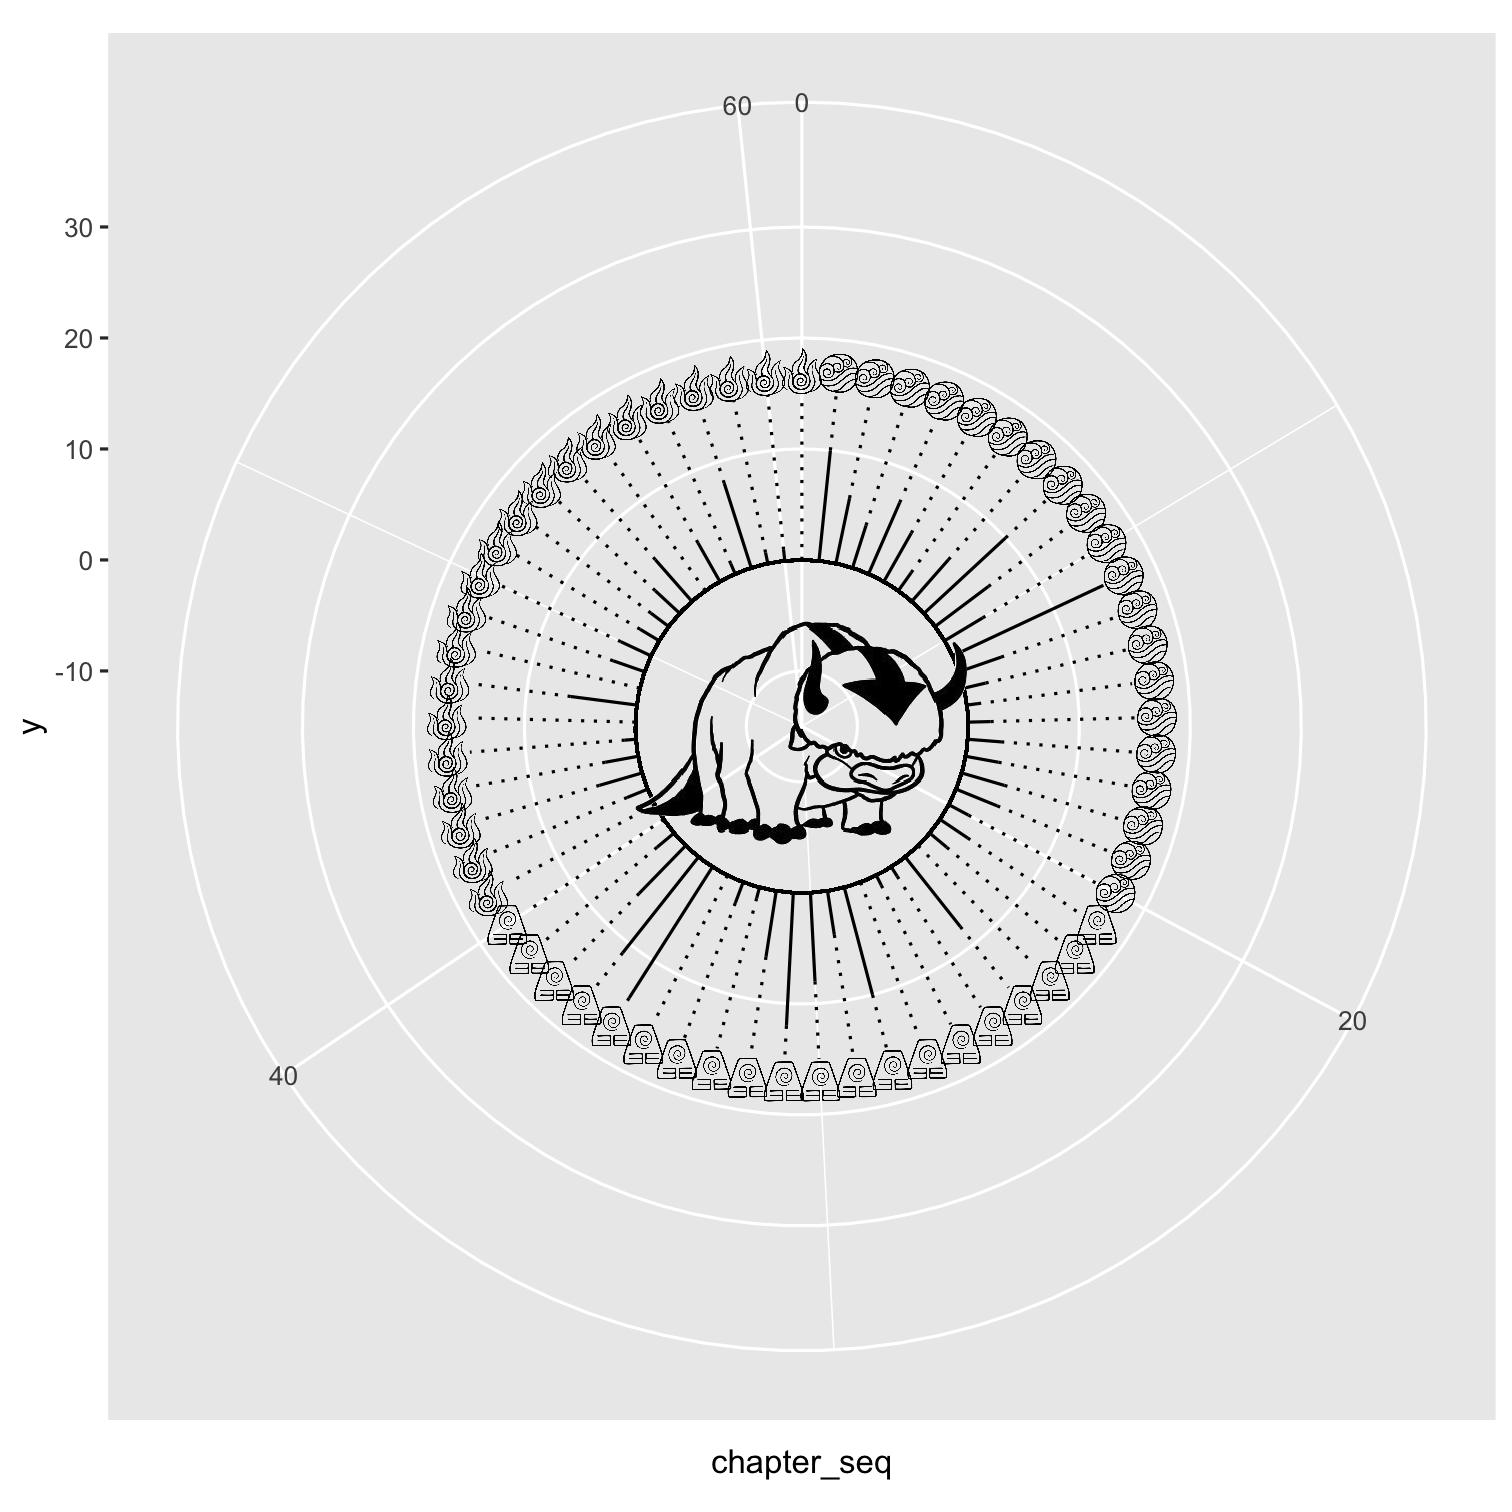
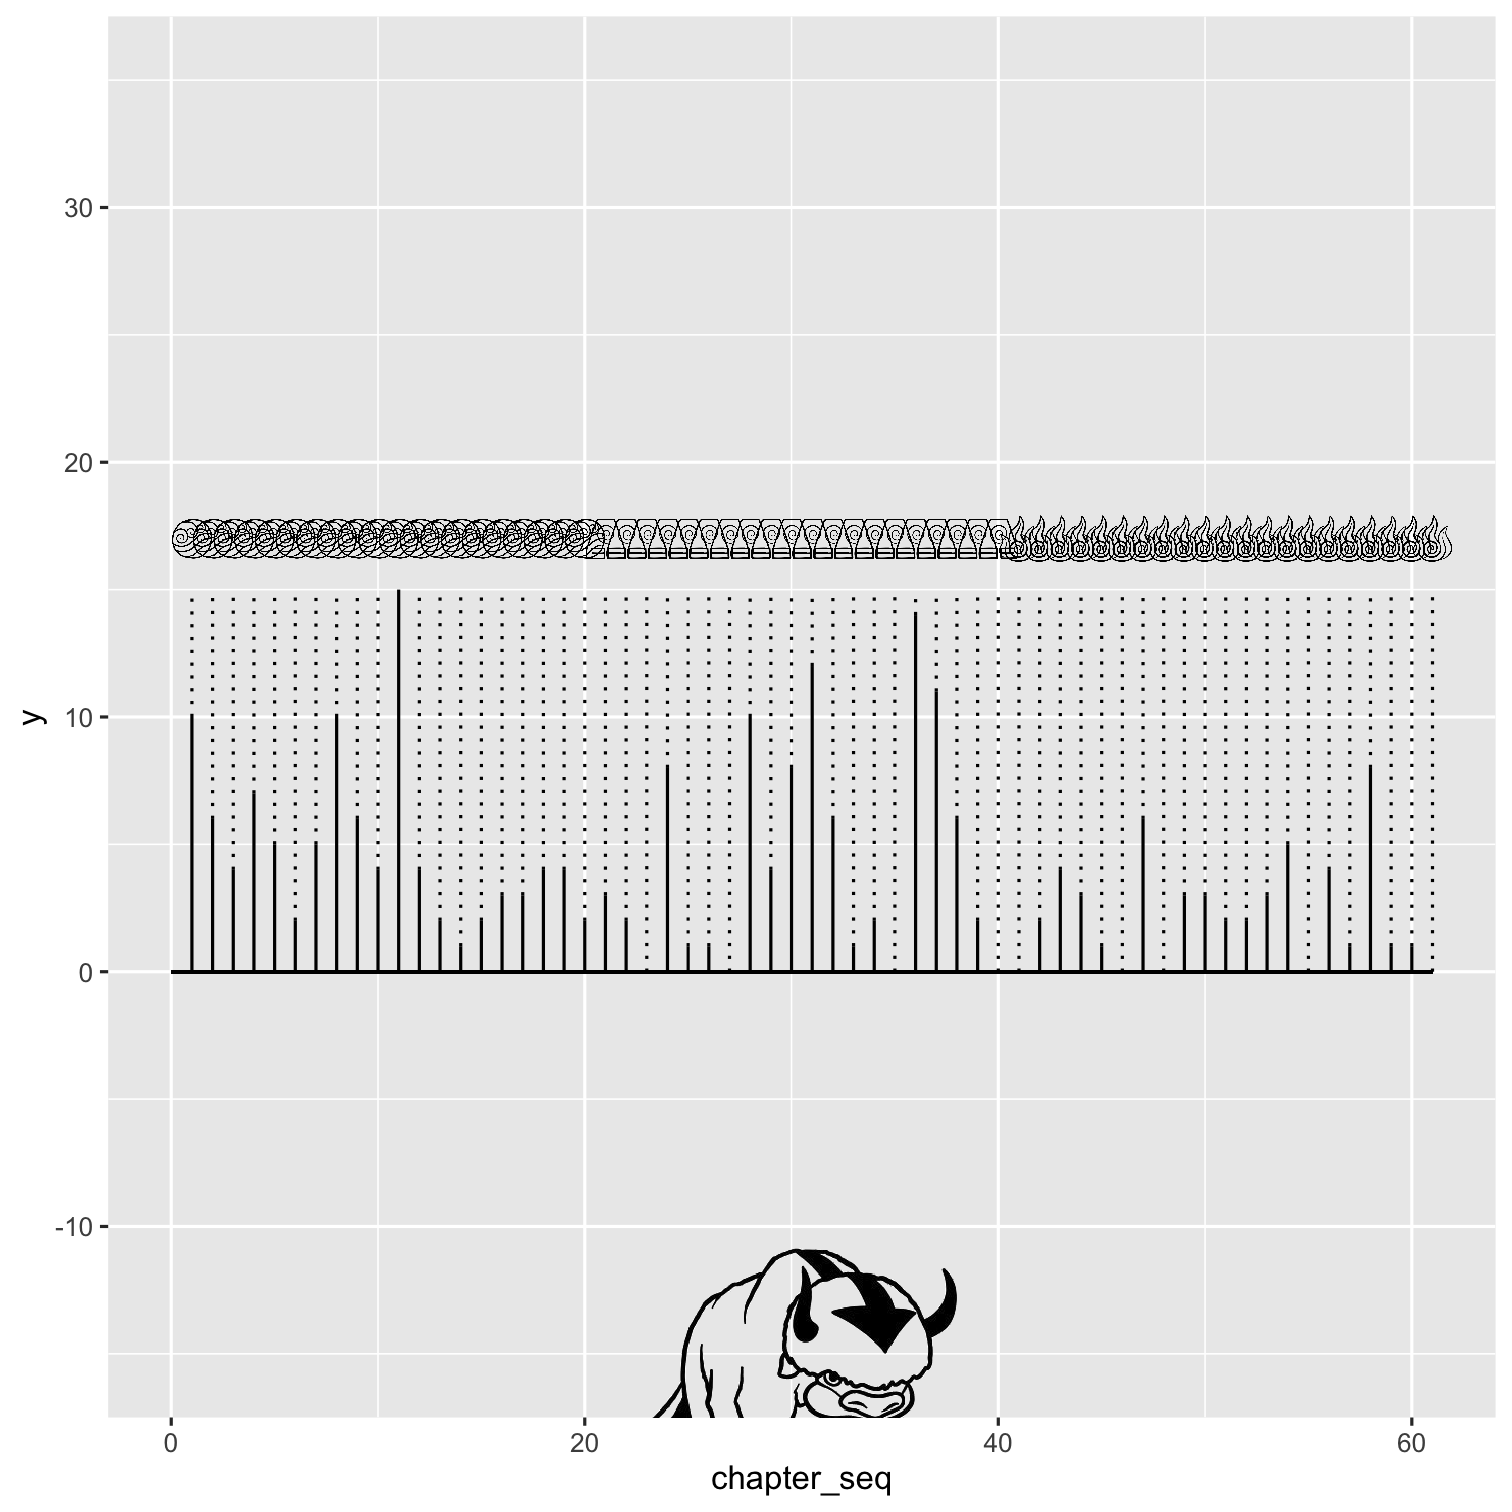
Final updates + tweaks!

diff --git a/index.html b/index.html
@@ -48,7 +48,7 @@ class: transition-slide-blue, center, middle
 ]
 --
 .my-white[
-### model, simulate or replicate creativity using a computer
+### definition: model, simulate or replicate creativity using a computer
 ]
 &lt;br&gt;
 --
@@ -60,8 +60,8 @@ class: transition-gradient-blue, center, middle
 
 .pull-left[
 .my-white[
-## Generative Art
-
+# Generative Art
+&lt;br&gt;
 ### algorithm or rule set entered into an "autonomous system" defines the design of the art
 ]
 ]
@@ -112,7 +112,7 @@ ggplot() +
 .pull-right[
 &lt;img src="images/pattern_17.png" width="80%" style="display: block; margin: auto;" /&gt;
 &lt;br&gt;
-**Pattern 17: Radial Patterns in ggplot2**
+.center[**Pattern 17: Radial Patterns in ggplot2**]
 ]
 ---
 background-image: url(images/patterns_cover_3.png)
@@ -161,7 +161,7 @@ class: transition-slide-blue, middle
 ]
 
 .pull-right[
-### .center[Pattern 3]
+### .center[Pattern 2]
 &lt;img src="images/pattern_3.png" width="80%" style="display: block; margin: auto;" /&gt;
 ]
 
@@ -173,16 +173,16 @@ class: transition-slide-blue, middle
 class: transition-slide-blue, center, middle
 
 
-# .my-green[Concept 1: ] .my-white[Horizontal vs. vertical segments have different appearances in the polar coordinate system]
+### .my-green[Concept 1: ] .my-white[Horizontal vs. vertical segments have different appearances in the polar coordinate system]
 
 --
-# .my-green[Concept 2: ] .my-white[Using a polar coordinate system is one of the easiest ways to make a radial-based visualization]
+### .my-green[Concept 2: ] .my-white[Using a polar coordinate system is one of the easiest ways to make a radial-based visualization]
 
 ---
 class: center, middle, transition-slide-blue
 
 .my-white[
-## My ride or die geom
+# My ride or die geom
 ]
 --
 .my-white[
@@ -262,7 +262,7 @@ class: transition-gradient-blue, middle, center
 
 .pull-left[
 .my-white[
-## Computational Art: First Pattern
+# Computational Art: First Pattern
 ]
 ]
 
@@ -338,7 +338,29 @@ ggplot() +
                    y = y, yend = yend)) +
   geom_point(data = dots,
              aes(x = x, y = yend)) +
-* scale_y_continuous(limits = c(-5, 10)) +
+* ylim(-5, 10) #+
+```
+
+```r
+  #coord_polar()
+```
+]
+
+.pull-right[
+![](index_files/figure-html/pattern_01a-1.png)
+]
+
+---
+.pull-left[
+
+```r
+ggplot() +
+  geom_segment(data = lines,
+               aes(x = x, xend = xend,
+                   y = y, yend = yend)) +
+  geom_point(data = dots,
+             aes(x = x, y = yend)) +
+* ylim(-5, 10) +
   coord_polar()
 ```
 ]
@@ -490,7 +512,7 @@ ggplot() +
                aes(x = x, xend = xend,
                    y = y, yend = yend),
                size = 2) + 
-  coord_polar() +
+  #coord_polar() +
 * ylim(-2, 10)
 ```
 &lt;br&gt;&lt;br&gt;
@@ -508,23 +530,20 @@ ggplot() +
   geom_segment(data = center_circle,
                aes(x = x, xend = xend,
                    y = y, yend = yend),
-               size = 0.5) +
+               size = 0.5) + 
   geom_segment(data = outer_circle,
                aes(x = x, xend = xend,
                    y = y, yend = yend),
-               size = 2) +
+               size = 2) + 
   coord_polar() +
-  ylim(-2, 10) + 
-  theme( 
-*   panel.grid = element_blank(),
-*   axis.title = element_blank(),
-*   axis.text = element_blank(),
-*   axis.ticks = element_blank()
-  )
+* ylim(-2, 10)
 ```
+&lt;br&gt;&lt;br&gt;
+**Modify `ylim()` to change the appearance of the center of the circle**
+
 ]
 .pull-right[
-![](index_files/figure-html/comp_art_5-1.png)
+![](index_files/figure-html/comp_art_4a-1.png)
 ]
 ---
 .pull-left[
@@ -548,10 +567,10 @@ ggplot() +
 *     fill = "#8a484a"),
 *   panel.background = element_rect(
 *     fill = "#8a484a"),
-    panel.grid = element_blank(),
-    axis.title = element_blank(),
-    axis.text = element_blank(),
-    axis.ticks = element_blank()
+*   panel.grid = element_blank(),
+*   axis.title = element_blank(),
+*   axis.text = element_blank(),
+*   axis.ticks = element_blank()
   )
 ```
 ]
@@ -672,10 +691,6 @@ class: transition-gradient-blue, middle
    &lt;td style="text-align:left;"&gt; Scene Description &lt;/td&gt;
    &lt;td style="text-align:left;"&gt; As the title card fades, the scene opens onto a shot of an icy sea before panning slowly to the left, revealing more towering icebergs drifting in the water as the shot rotates, moving over a large snow-covered area where the untouched blanket of snow is broken by two tracks of footsteps. The shot fades to another shot of the sea and of icebergs in blue water contrasted by the paleness of the sky beyond. As the shot once again pans to the left and rotates likewise, a small canoe comes into view, its motion through the water indicated by the wake left behind it. The shot zooms slightly on the canoe before cutting down to it, providing a side angle of the canoe and of the walls of ice rising on either side of the vessel. Two people, a boy and a girl, are sitting in the boat; the boy holds a spear at the ready, while the girl simply stares into the water on the other side of the boat. The shot cuts to an overhead view, revealing that a fish is swimming close to the surface right in front of the boy, who is focused on it, following its every movement. Cut to a frontal view of him. &lt;/td&gt;
   &lt;/tr&gt;
-  &lt;tr&gt;
-   &lt;td style="text-align:left;"&gt; Sokka &lt;/td&gt;
-   &lt;td style="text-align:left;"&gt; It's not getting away from me this time. [Close-up of the boy as he grins confidently over his shoulder in the direction of the girl.] Watch and learn, Katara. This is how you catch a fish. &lt;/td&gt;
-  &lt;/tr&gt;
 &lt;/tbody&gt;
 &lt;/table&gt;
 
@@ -683,7 +698,7 @@ class: transition-gradient-blue, middle
 class: center, middle
 
 &lt;img src="images/avatar/appa.png" width="40%" style="display: block; margin: auto;" /&gt;
-## Who mentioned Appa and how many times per episode?
+### Who mentioned Appa and how many times per episode?
 
 ---
 
@@ -700,10 +715,10 @@ class: center, middle
 
 .pull-left[
 ### Visualization Aims
-#### 1. We want a spoke-type radial visualization.
-#### 2. Each episode/chapter is a line segment.
-####  3. Length of the line segment is the number of mentions of Appa per chapter.
-####  4. The line segment should have two different appearances
+### 1. We want a spoke-type radial visualization.
+### 2. Each episode/chapter is a line segment.
+### 3. Length of the line segment is the number of mentions of Appa per chapter.
+### 4. The line segment should have two different appearances
 ]
 
 .pull-right[
@@ -806,22 +821,6 @@ ggplot(data = appa_data_merged) +
 
 .pull-right[
 ![](index_files/figure-html/appa_plot_2-1.png)
-]
----
-.pull-left[
-
-```r
-img = c(here::here("images", "avatar", 
-                   "earth_element.png"),
-        here::here("images", "avatar", 
-                   "fire_element.png"),
-        here::here("images", "avatar", 
-                   "water_element.png"))
-```
-]
-
-.pull-right[
-&lt;img src="images/bookconcat_images.png" width="60%" style="display: block; margin: auto;" /&gt;
 ]
 ---
 .pull-left[
@@ -1034,7 +1033,7 @@ ggplot(data = appa_data_merged) +
 *                y = -15,
 *                image = appa_img),
 *            size = .25) +
-  coord_polar() + 
+  #coord_polar() + 
   xlim(0, 61) +
   ylim(-15,35)
 ```
@@ -1044,6 +1043,43 @@ ggplot(data = appa_data_merged) +
 
 .pull-right[
 ![](index_files/figure-html/appa_plot_10-1.png)
+]
+---
+.pull-left[
+
+```r
+ggplot(data = appa_data_merged) +
+  geom_segment(aes(x = chapter_seq,
+                   xend = chapter_seq,
+                   y = 0,
+                   yend = appa_mentions_sum)) +
+  geom_segment(aes(x = chapter_seq, 
+                   xend = chapter_seq, 
+                   y = appa_mentions_sum, 
+                   yend = mention_max), 
+               linetype = "dotted") +
+  geom_image(aes(x = chapter_seq, 
+                 y = mention_max + 2,
+                 image = images), 
+             size = 0.03) + 
+  geom_segment(aes(x = 0, 
+                   xend = 61, 
+                   y = 0, 
+                   yend = 0)) + 
+* geom_image(aes(x = 30,
+*                y = -15,
+*                image = appa_img),
+*            size = .25) +
+* coord_polar() +
+  xlim(0, 61) +
+  ylim(-15,35)
+```
+&lt;br&gt;
+**Add an Appa image to center of visualization**
+]
+
+.pull-right[
+![](index_files/figure-html/appa_plot_10a-1.png)
 ]
 ---
 
@@ -1115,46 +1151,60 @@ class: transition-slide-blue, middle
 
 ---
 .pull-left[
+&lt;img src="index_files/figure-html/unnamed-chunk-32-1.png" width="504" style="display: block; margin: auto;" /&gt;
+.center[
+### Computational Art: First Pattern
+]
+]
+
+.pull-right[
+&lt;img src="index_files/figure-html/unnamed-chunk-33-1.png" width="504" style="display: block; margin: auto;" /&gt;
+.center[
+### TidyTuesday: DataViz
+]
+]
+---
+.pull-left[
 &lt;img src="index_files/figure-html/unnamed-chunk-34-1.png" width="504" style="display: block; margin: auto;" /&gt;
+.center[
+### Computational Art: Second Pattern
+]
 ]
 
 .pull-right[
 &lt;img src="index_files/figure-html/unnamed-chunk-35-1.png" width="504" style="display: block; margin: auto;" /&gt;
+.center[
+### TidyTuesday: DataViz
 ]
----
-.pull-left[
-&lt;img src="index_files/figure-html/unnamed-chunk-36-1.png" width="504" style="display: block; margin: auto;" /&gt;
-]
-
-.pull-right[
-&lt;img src="index_files/figure-html/unnamed-chunk-37-1.png" width="504" style="display: block; margin: auto;" /&gt;
 ]
 
 ---
-class: center, middle
+class: center, middle, transition-slide-blue
 
-
+.my-white[
 ### You can do computational art! If not for fun, then to improve your data visualization skills!
+]
 
 
 ![](https://media.giphy.com/media/JTPBO0v9xTy5KZggKI/giphy.gif)
 
 
 ---
-class: center, middle
-
-# Waffles says thank you for attending!
-
+class: center, middle, transition-gradient-blue
 
 .pull-left[
-&lt;img src="images/waffles.jpg" width="60%" style="display: block; margin: auto;" /&gt;
+.my-white[
+# Waffles says thank you for attending!
+&lt;br&gt;
+
+### twitter: @ijeamaka_a
+### github: ijeamakaa/aRt_ggplot_slides
+]
 ]
 
+
 .pull-right[
-.my-white[
-### [@ijeamaka_a](https://twitter.com/ijeamaka_a)
-### [ijeamakaa/aRt_ggplot_slides]()
-]
+&lt;img src="images/waffles.jpg" width="70%" style="display: block; margin: auto;" /&gt;
 ]
     </textarea>
 <style data-target="print-only">@media screen {.remark-slide-container{display:block;}.remark-slide-scaler{box-shadow:none;}}</style>

diff --git a/my_css/theme.css b/my_css/theme.css
@@ -1,3 +1,18 @@
+@import url('https://fonts.googleapis.com/css2?family=Josefin+Sans&display=swap');
+@import url('https://fonts.googleapis.com/css2?family=Open+Sans&display=swap');
+
+body {
+  font-family: 'Open Sans', sans-serif;
+}
+
+h1, h2, h3 {
+  font-family: 'Josefin Sans', sans-serif;
+}
+
+.remark-code, .remark-inline-code {
+  font-family: 'Roboto Mono', monospace;
+}
+
 /* Color Variables */ 
 :root {
 --RaisinBlack: #252323;
